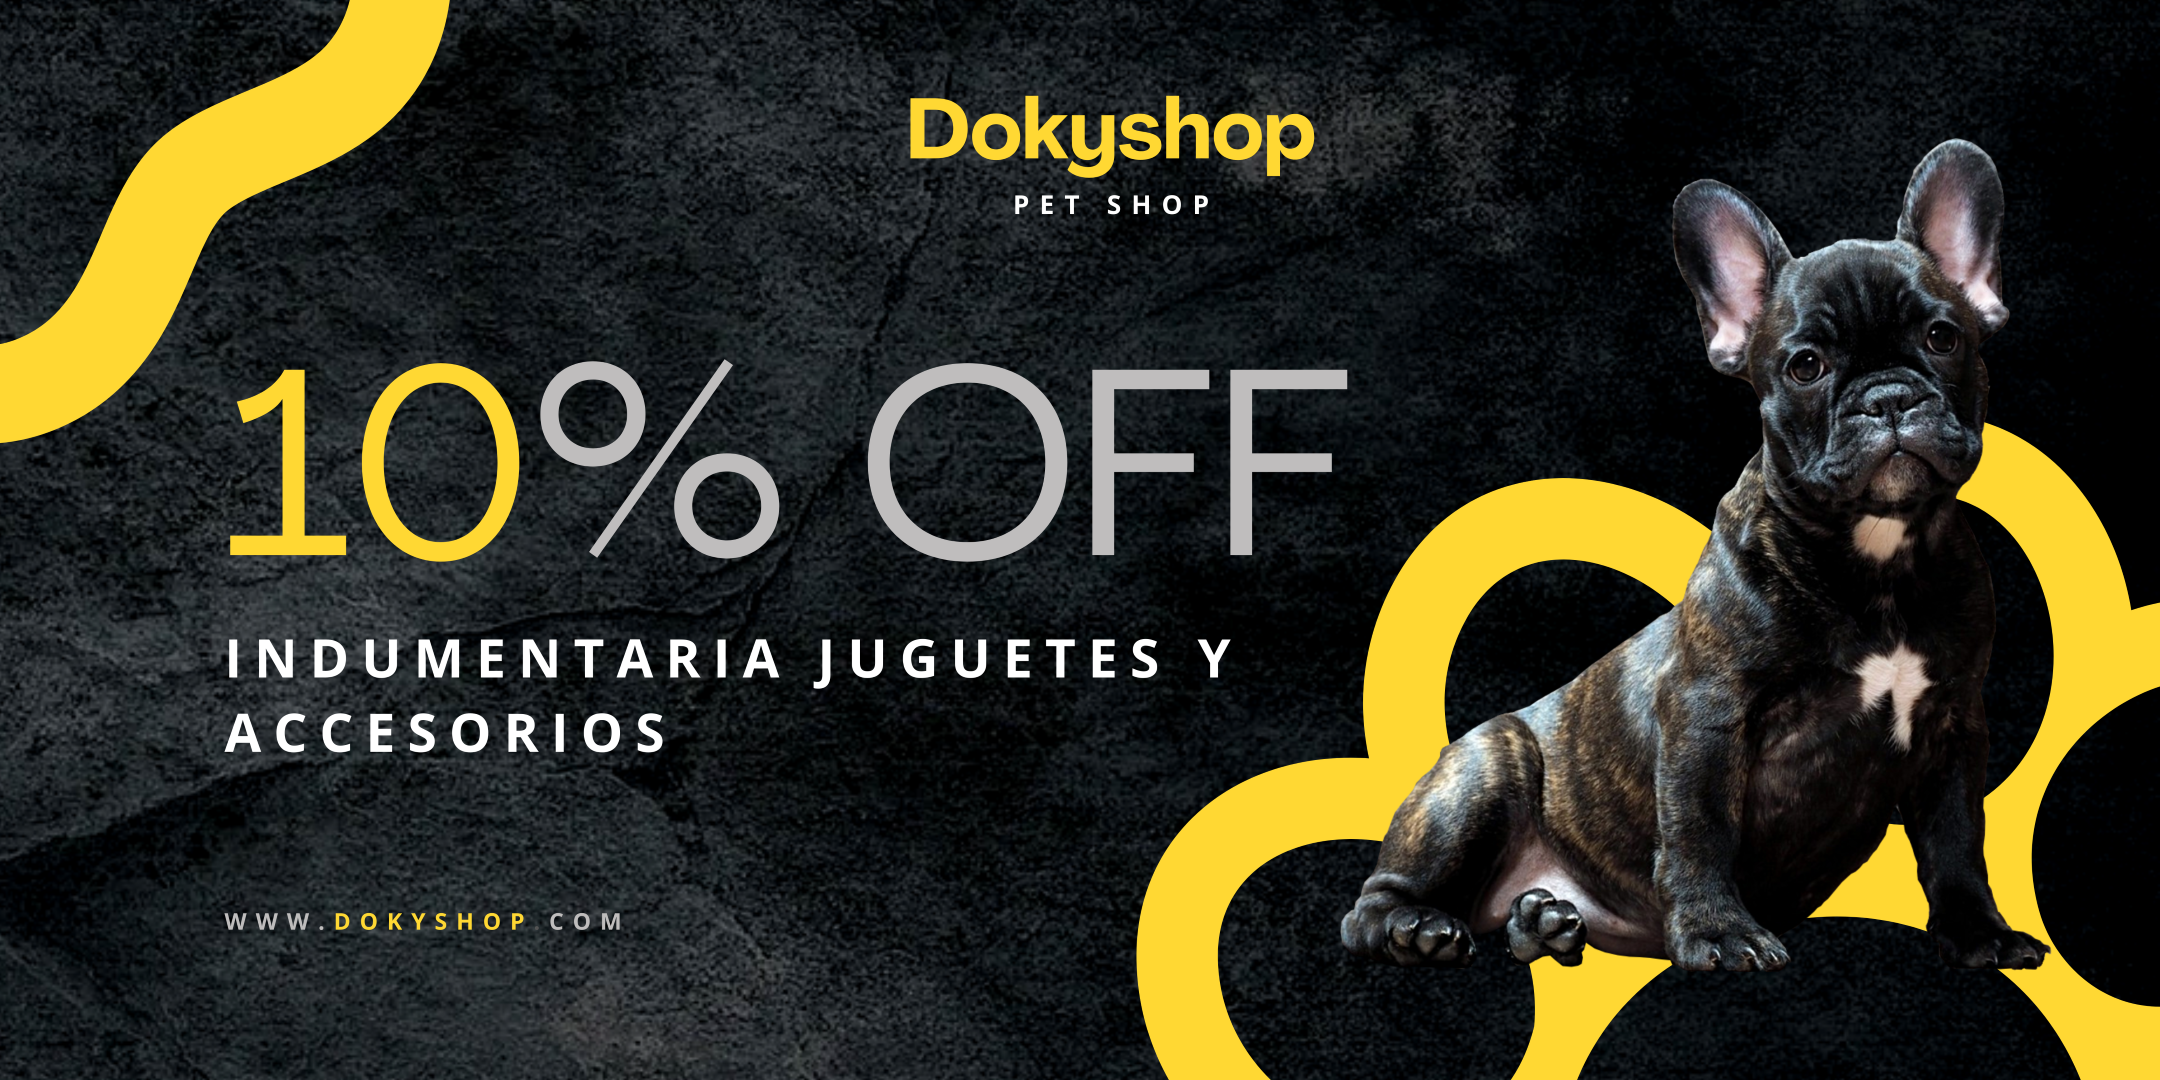
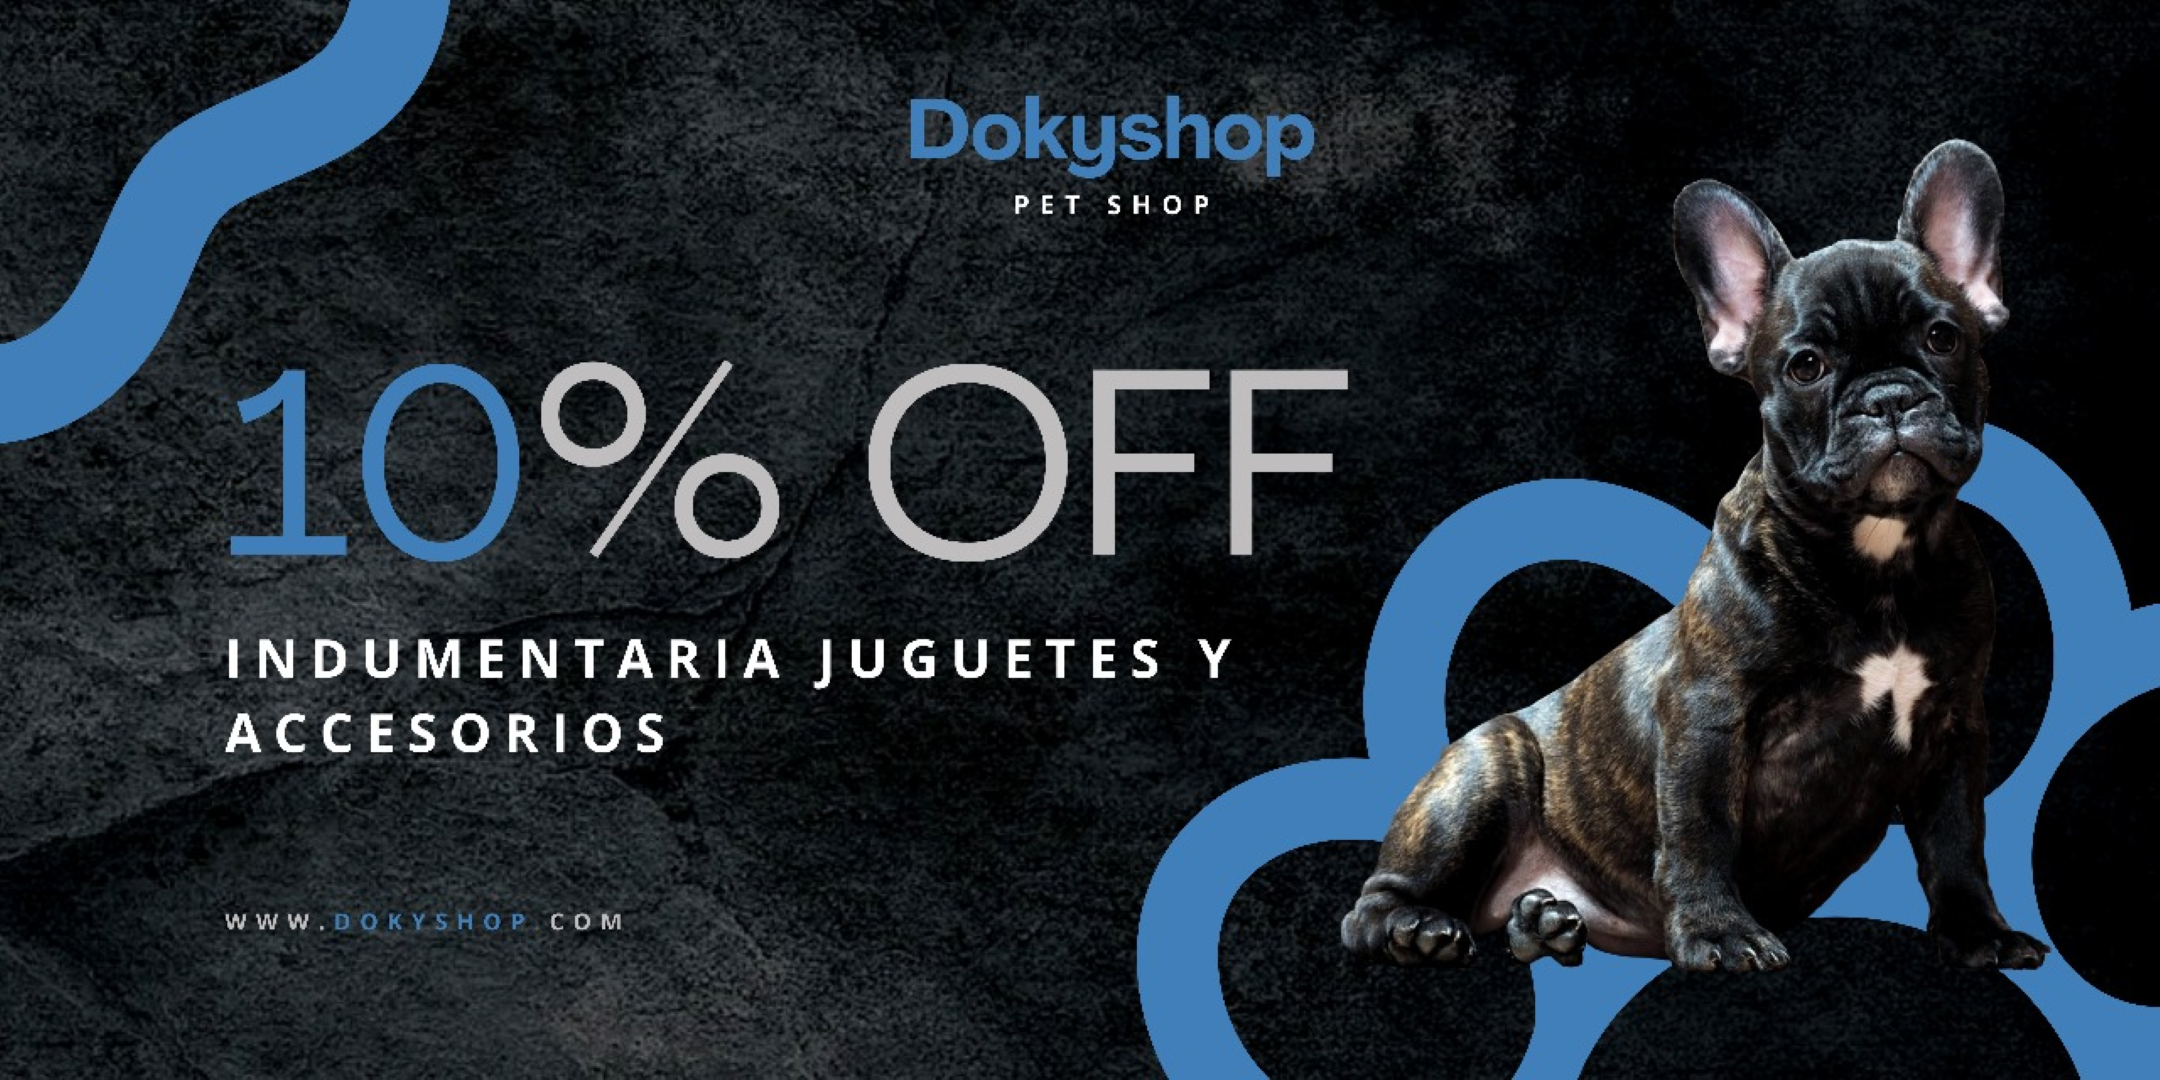
agregue estilos al login, register y carrusel :>

diff --git a/public/css/register.css b/public/css/register.css
@@ -20,10 +20,11 @@ main.register-main p.is-invalid{
     border-radius: 8px;
     background-color: var(--celeste);
     transition: 1s;
+    color: var(--blanco);
   }
   
 .register-main .imgProductForm input[type="file"]::file-selector-button:hover {
-    background-color:var(--naranjaig);
+    background-color:var(--celesteRGBA);
     color: var(--blanco);
 }
 
@@ -56,7 +57,7 @@ main.register-main h1 {
 }
 
 main.register-main form.form-principal {
-    background-color: rgb(253 200 37 / 70%);
+    background-color: var(--celesteClaroTraslucido);
     border-radius: 10px;
     margin: auto;
     max-width: 75vw;
@@ -78,7 +79,12 @@ main.register-main form.form-principal .contenedor-form {
     margin: auto;
 }
 
-main.register-main form.form-principal .contenedor-form .nombre {border-radius: 3px;border: none;font-size: 16px;padding-left: 5px;}
+main.register-main form.form-principal .contenedor-form .nombre {
+    border-radius: 3px;
+    border: none;
+    font-size: 16px;
+    padding-left: 5px;
+}
 
 main.register-main form.form-principal .contenedor-form .nombre label {
     width: 90%;
@@ -97,7 +103,13 @@ main.register-main form.form-principal .contenedor-form .nombre input {
 
 
 
-main.register-main form.form-principal .contenedor-form .email {width: 100%;border-radius: 3px;border: none;font-size: 16px;padding-left: 5px;}
+main.register-main form.form-principal .contenedor-form .email {
+    width: 100%;
+    border-radius: 3px;
+    border: none;
+    font-size: 16px;
+    padding-left: 5px;
+}
 
 main.register-main form.form-principal .contenedor-form .email label {
     width: 90%;
@@ -114,7 +126,13 @@ main.register-main form.form-principal .contenedor-form .email input {
     width: 100%;
 }
 
-main.register-main form.form-principal .contenedor-form .contrasenia {width: 100%;border-radius: 3px;border: none;font-size: 16px;padding-left: 5px;}
+main.register-main form.form-principal .contenedor-form .contrasenia {
+    width: 100%;
+    border-radius: 3px;
+    border: none;
+    font-size: 16px;
+    padding-left: 5px;
+}
 
 main.register-main form.form-principal .contenedor-form .contrasenia label {
     width: 90%;
@@ -147,16 +165,16 @@ main.register-main form.form-principal .contenedor-button .boton a.whatsApp {
 main.register-main form.form-principal .contenedor-button button.submit {
     width: 50%;
     padding: 10px 0;
-    background-color: var(--naranjaig);
+    background-color: var(--celeste);
     border-radius: 8px;
-    border: 1px solid #c1a554;
+    border: none;
     color: var(--blanco);
     transition: all 400ms;
 }
 
 main.register-main form.form-principal .contenedor-button button.submit:hover {
-    background-color: rgb(210, 90, 53);
-    color: white;
+    background-color: var(--celesteRGBA);
+    color: var(--blanco);
 }
 
 main.register-main form.form-principal .contenedor-button .inicio {
@@ -176,7 +194,7 @@ main.register-main form.form-principal .contenedor-button p {
 
 main.register-main form.form-principal .contenedor-button a.inicio-session {
     margin: 0;
-    color: var(--naranja);
+    color: var(--celeste);
     width: 50%;
     display: inline-block;
     font-size: 14px;
@@ -187,7 +205,7 @@ main.register-main form.form-principal .contenedor-button a.inicio-session {
 }
 
 main.register-main form.form-principal .contenedor-button a.inicio-session:hover {
-    color: rgb(215, 104, 104);
+    color: var(--grisOscuro);
 }
 
 .contenedor-form p.text-danger-error {

diff --git a/public/css/login.css b/public/css/login.css
@@ -29,7 +29,7 @@ main.login-main h1.titulo-login{
 }
 
 main.login-main form.form-principal{
-  background-color: rgb(253 200 37 / 70%);
+  background-color: var(--celesteClaroTraslucido);
   border-radius: 10px;
   margin: auto;
   max-width: 75vw;
@@ -104,15 +104,15 @@ main.login-main form.form-principal .contenedor-button .boton{
 main.login-main form.form-principal .contenedor-button .boton button.submit{
   padding: 7px 7px;
   width: 100%;
-  background-color: var(--naranjaig);
-  color: white;
+  background-color: var(--celeste);
+  color: var(--blanco);
   border-radius: 8px;
   border: none;
   transition: all 420ms;
 }
 
 main.login-main form.form-principal .contenedor-button .boton button.submit:hover{
-  background-color: chocolate;
+  background-color: var(--celesteRGBA);
 }
 
 main.login-main form.form-principal .contenedor-button .inicio{
@@ -129,10 +129,16 @@ main.login-main form.form-principal .contenedor-button .inicio a.crear-cuenta{
   text-decoration: none;
   text-align: center;
   font-size: 14px;
-  color: var(--naranja);
+  color: var(--celeste);
   font-weight: bold;
   padding-bottom: 10px;
+  transition: all 400ms;
 }
+
+main.login-main form.form-principal .contenedor-button .inicio a.crear-cuenta:hover {
+    color: var(--grisOscuro);
+}
+
 
 .form-principal p.msg-error {
   color: var(--rojo);

diff --git a/public/css/general.css b/public/css/general.css
@@ -3,6 +3,7 @@
     --celeste: #407FB9;
     --celesteRGBA: rgba(64, 127, 185, 0.5);
     --celesteClaro: #A0C5E8;
+    --celesteClaroTraslucido:#a0c5e8c2;
     --marron: #EFB810;
     --rosa: #FED7D7;
     --blanco: #FFFFFF;
